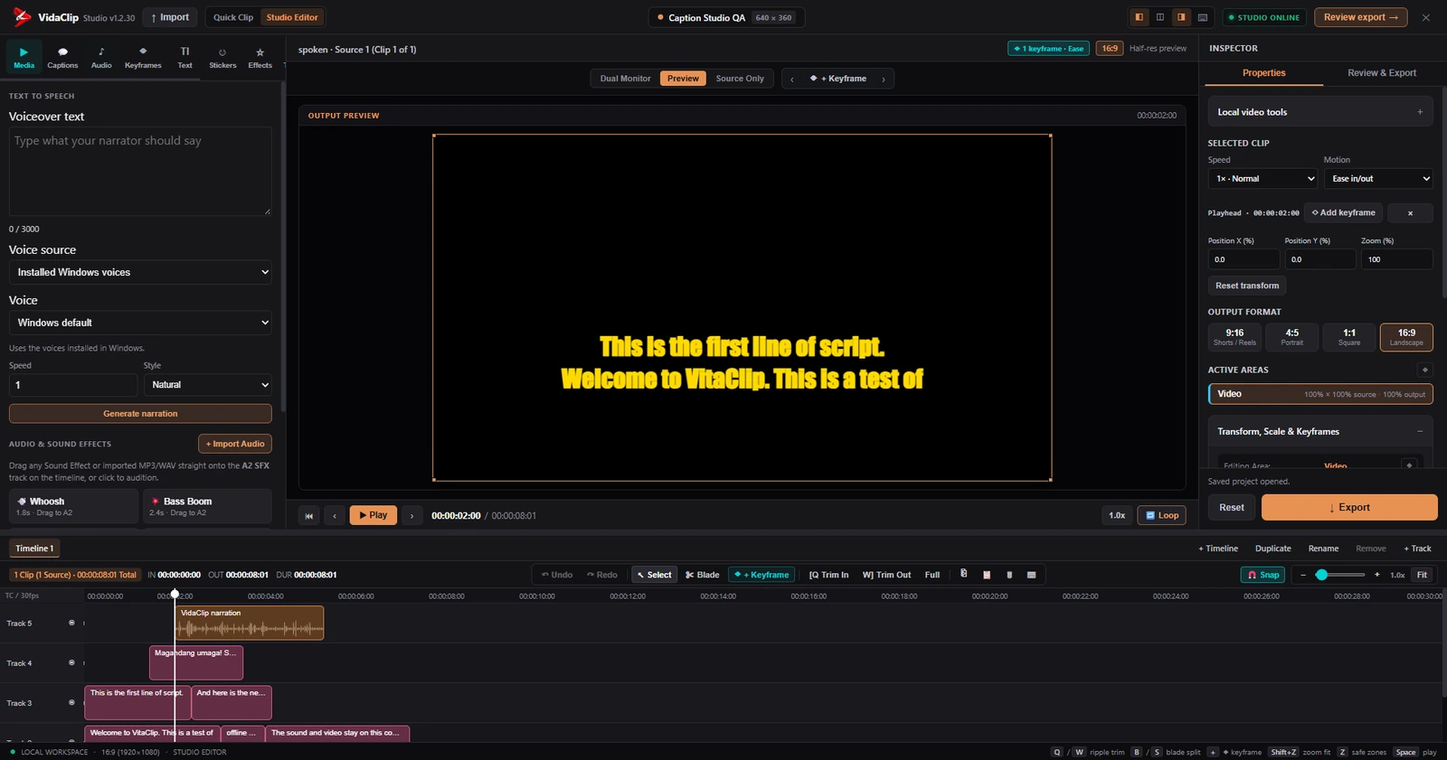
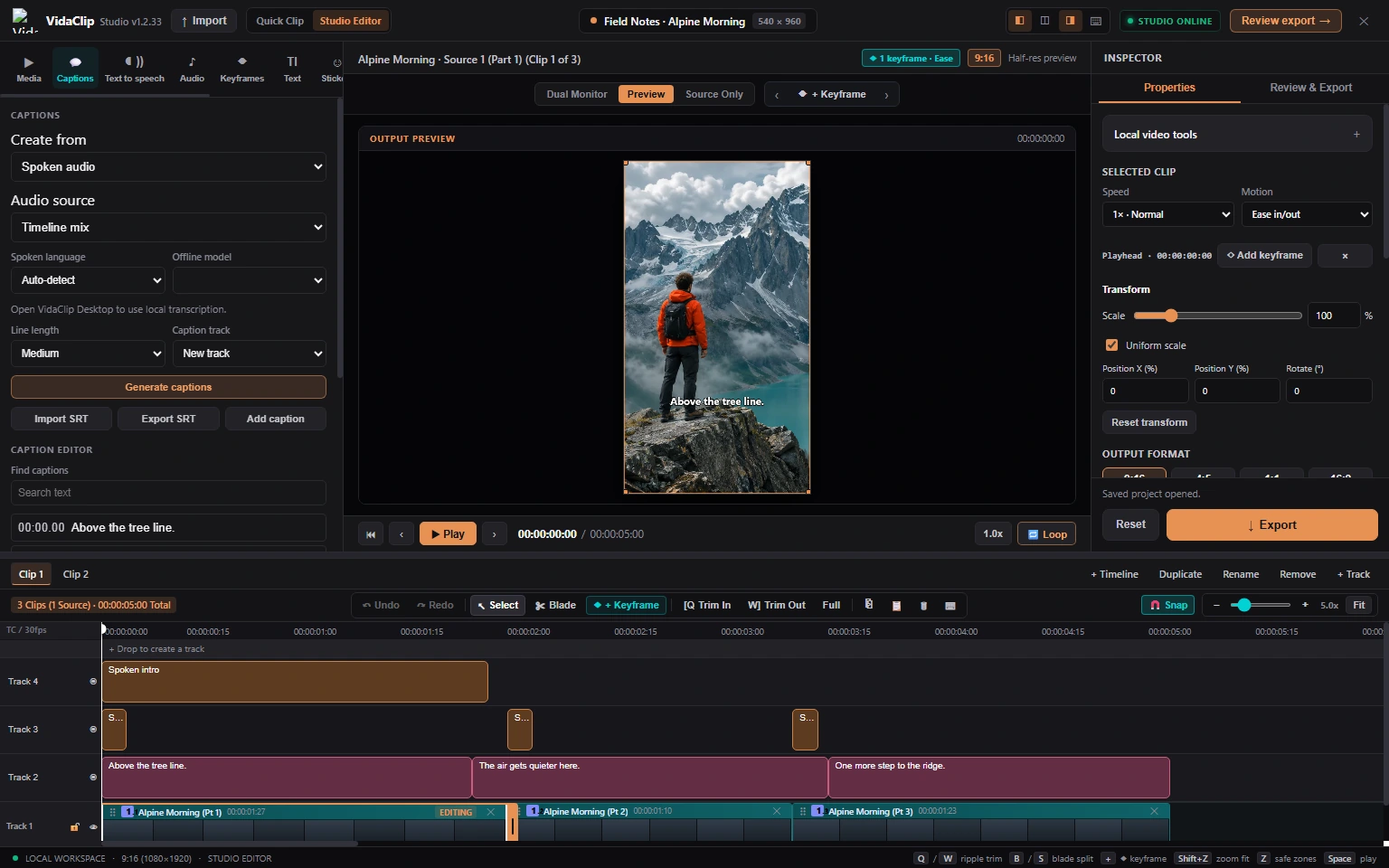
Redesign homepage around the Auto Clip workflow

diff --git a/index.html b/index.html
@@ -5,11 +5,11 @@
   <meta name="viewport" content="width=device-width, initial-scale=1">
   <meta name="theme-color" content="#131214">
   <meta name="description" content="Turn a video into vertical highlights with VidaClip Auto Clip, then finish the edit on a layered timeline in Studio for Windows.">
-  <meta property="og:title" content="VidaClip — From long video to short story">
+  <meta property="og:title" content="VidaClip — Turn video links into editable Shorts">
   <meta property="og:description" content="Find highlights, cut the quiet, and make the edit yours. Auto Clip and Studio for Windows.">
   <meta property="og:type" content="website">
   <meta property="og:image" content="https://jamiidels.github.io/VidaClip-/assets/field-notes.webp">
-  <title>VidaClip — From long video to short story</title>
+  <title>VidaClip — Turn video links into editable Shorts</title>
   <link rel="icon" href="favicon.ico">
   <link rel="stylesheet" href="site.css">
   <link rel="preconnect" href="https://fonts.googleapis.com">
@@ -23,7 +23,7 @@
     <div class="nav shell">
       <a class="brand" href="#top"><img src="assets/mark.webp" alt="" width="34" height="34">VidaClip</a>
       <nav aria-label="Main navigation">
-        <a href="#workspace">Features</a>
+        <a href="#features">Features</a>
         <a href="#showcase">Studio</a>
         <a href="#pricing">Plans</a>
         <a href="changelog.html">Changelog</a>
@@ -33,26 +33,58 @@
     </div>
   </header>
   <main id="main">
-    <section class="hero shell">
-      <div class="release-pill"><i aria-hidden="true"></i> Windows Desktop <span></span> v1.2.33 Early Access</div>
-      <h1>From long video<br>to <em>short story.</em></h1>
-      <p class="hero-intro">Turn a video link into editable highlights with Auto Clip. Fine-tune your Shorts, Reels, and TikToks in Studio for Windows.</p>
-      <div class="hero-downloads">
-        <div class="actions" role="group" aria-label="Browser extensions">
-          <a class="button secondary" href="https://chromewebstore.google.com/detail/vidaclip-%E2%80%94-social-video-c/pajkhmldglleagkdgeogkcbgeonkhigo">Add to Chrome</a>
-          <a class="button secondary" href="https://microsoftedge.microsoft.com/addons/detail/vidaclip-%E2%80%94-social-video-c/ooogedpnllkpbgdohjakigfajiohmdli">Add to Edge</a>
+    <section class="hero shell" aria-labelledby="hero-heading">
+      <div class="hero-copy">
+        <div class="release-pill"><i aria-hidden="true"></i> Windows Desktop <span></span> v1.2.33 Early Access</div>
+        <h1 id="hero-heading">Turn a link into <em>editable Shorts.</em></h1>
+        <p class="hero-intro">Auto Clip finds highlights, trims long pauses, and adds captions. Fine-tune every cut in Studio before you share.</p>
+        <div class="hero-downloads">
+          <a class="button primary" href="https://github.com/JamiiDels/VidaClip-/releases/download/v1.2.33/VidaClip-Desktop-1.2.33-Windows.zip">Download free for Windows</a>
+          <a class="button secondary" href="#showcase">See Studio</a>
         </div>
-        <a class="button primary" href="https://github.com/JamiiDels/VidaClip-/releases/download/v1.2.33/VidaClip-Desktop-1.2.33-Windows.zip">Download latest version for Windows</a>
         <p class="download-benefit">Free Studio exports · No watermark</p>
+        <div class="hero-browser" role="group" aria-label="Companion browser extensions">
+          <span>Clip while you watch</span>
+          <a href="https://chromewebstore.google.com/detail/vidaclip-%E2%80%94-social-video-c/pajkhmldglleagkdgeogkcbgeonkhigo">Add to Chrome</a>
+          <a href="https://microsoftedge.microsoft.com/addons/detail/vidaclip-%E2%80%94-social-video-c/ooogedpnllkpbgdohjakigfajiohmdli">Add to Edge</a>
+        </div>
+      </div>
+      <div class="workflow-demo" data-workflow data-step="link">
+        <div class="workflow-head">
+          <span><img src="assets/mark.webp" width="23" height="23" alt=""> Auto Clip walkthrough</span>
+          <button class="workflow-toggle" type="button" data-demo-toggle hidden>Pause</button>
+        </div>
+        <div class="workflow-stage" aria-hidden="true">
+          <div class="workflow-frame">
+            <img src="assets/field-notes.webp" alt="" width="1350" height="760" fetchpriority="high">
+            <span class="workflow-frame-tag">9:16 · Vertical draft</span>
+            <span class="workflow-caption">Above the tree line.</span>
+          </div>
+          <div class="workflow-link"><span>Video link</span><strong>Alpine Morning · Sample video</strong></div>
+          <div class="workflow-clips"><span>Clip 1 <b>00:15</b></span><span>Clip 2 <b>00:10</b></span></div>
+          <div class="workflow-timeline">
+            <span>Captions <i></i></span>
+            <span>Video <i></i></span>
+            <span>Audio <i></i></span>
+          </div>
+        </div>
+        <div class="workflow-detail">
+          <strong data-demo-heading>Start with a video link.</strong>
+          <p data-demo-description>Paste it into the Desktop Workspace.</p>
+        </div>
+        <div class="workflow-choices" role="group" aria-label="Walkthrough steps" hidden>
+          <button type="button" data-demo-step="link" aria-pressed="true">Paste a link</button>
+          <button type="button" data-demo-step="clip" aria-pressed="false">Find highlights</button>
+          <button type="button" data-demo-step="studio" aria-pressed="false">Edit in Studio</button>
+        </div>
       </div>
     </section>
 
     <section class="section shell release-spotlight" id="features">
       <div class="release-feature">
         <div>
-          <p class="eyebrow"><span aria-hidden="true">✂</span> Auto Clip</p>
-          <h2>One link. More highlights.</h2>
-          <p class="section-intro">Paste a video link and get editable vertical highlights for Shorts, Reels, and TikToks.</p>
+          <p class="eyebrow"><span aria-hidden="true">✂</span> Inside Auto Clip</p>
+          <h2>Pick what goes into each short.</h2>
           <ul>
             <li><span aria-hidden="true">🎯</span><div><strong>Pick the length and clip count</strong><p>Make up to two drafts per run on Free, or unlock up to ten drafts and custom lengths on paid plans.</p></div></li>
             <li><span aria-hidden="true">💬</span><div><strong>Choose what Auto Clip adds</strong><p>Trim long pauses, generate captions, or add a spoken intro and sound effects. Fine-tune each draft on its own Studio timeline.</p></div></li>
@@ -64,7 +96,7 @@
 
     <section class="section shell app-features" id="workspace">
       <p class="eyebrow"><span></span> Features</p>
-      <h2>Capture, edit, and publish.</h2>
+      <h2>Everything you need to finish the cut.</h2>
       <div class="app-feature-grid">
         <article class="app-feature">
           <a class="feature-shot" href="assets/features/download.webp" data-screenshot-title="Instant Link Downloader" aria-label="Enlarge Instant Link Downloader screenshot"><img src="assets/features/download.webp" alt="" width="640" height="360" loading="lazy"></a>
@@ -90,30 +122,35 @@
           <a class="feature-shot" href="assets/screenshots/09-preview-and-export.webp" data-screenshot-title="Free exports, no watermark" aria-label="Enlarge Free exports, no watermark screenshot"><img src="assets/screenshots/09-preview-and-export.webp" alt="" width="1280" height="800" loading="lazy"></a>
           <div><h3><span aria-hidden="true">📤</span> Free exports, no watermark</h3><p>Finish an edit and publish it on the Free plan. Studio exports are unlimited and carry no VidaClip watermark.</p></div>
         </article>
-        <article class="app-feature">
-          <a class="feature-shot" href="assets/features/metadata.webp" data-screenshot-title="AI Label Remover" aria-label="Enlarge AI Label Remover screenshot"><img src="assets/features/metadata.webp" alt="" width="640" height="360" loading="lazy"></a>
-          <div><h3><span aria-hidden="true">🛡</span> AI Label Remover</h3><p>Batch-clean supported embedded metadata, including C2PA, from photos and videos. See what was found and save cleaned copies locally.</p></div>
-        </article>
-        <article class="app-feature">
-          <a class="feature-shot" href="assets/features/export.webp" data-screenshot-title="Effects, speed, and export" aria-label="Enlarge Effects, speed, and export screenshot"><img src="assets/features/export.webp" alt="" width="640" height="360" loading="lazy"></a>
-          <div><h3><span aria-hidden="true">🎛</span> Effects, speed, and export</h3><p>Apply transitions and effects, create speed ramps or freeze frames, and stabilize or denoise footage. Edit with lighter previews and export locally from the original files.</p></div>
-        </article>
-        <article class="app-feature">
-          <a class="feature-shot" href="assets/features/automation.webp" data-screenshot-title="VidaClip Automation" aria-label="Enlarge VidaClip Automation screenshot"><img src="assets/features/automation.webp" alt="" width="640" height="360" loading="lazy"></a>
-          <div><h3><span aria-hidden="true">🤖</span> VidaClip Automation</h3><p>Connect an MCP client or run scripts to import media, edit timelines, generate speech and captions, and start exports.</p></div>
-        </article>
-        <article class="app-feature">
-          <a class="feature-shot" href="assets/features/projects.webp" data-screenshot-title="Projects and Clip Library" aria-label="Enlarge Projects and Clip Library screenshot"><img src="assets/features/projects.webp" alt="" width="640" height="360" loading="lazy"></a>
-          <div><h3><span aria-hidden="true">📁</span> Projects and Clip Library</h3><p>Start from a blank project or reopen a draft. Find saved clips automatically and import your own videos, photos, and audio.</p></div>
-        </article>
       </div>
+      <details class="more-features">
+        <summary>More tools in VidaClip</summary>
+        <div class="app-feature-grid">
+          <article class="app-feature">
+            <a class="feature-shot" href="assets/features/metadata.webp" data-screenshot-title="AI Label Remover" aria-label="Enlarge AI Label Remover screenshot"><img src="assets/features/metadata.webp" alt="" width="640" height="360" loading="lazy"></a>
+            <div><h3><span aria-hidden="true">🛡</span> AI Label Remover</h3><p>Batch-clean supported embedded metadata, including C2PA, from photos and videos. See what was found and save cleaned copies locally.</p></div>
+          </article>
+          <article class="app-feature">
+            <a class="feature-shot" href="assets/features/export.webp" data-screenshot-title="Effects, speed, and export" aria-label="Enlarge Effects, speed, and export screenshot"><img src="assets/features/export.webp" alt="" width="640" height="360" loading="lazy"></a>
+            <div><h3><span aria-hidden="true">🎛</span> Effects, speed, and export</h3><p>Apply transitions and effects, create speed ramps or freeze frames, and stabilize or denoise footage. Edit with lighter previews and export locally from the original files.</p></div>
+          </article>
+          <article class="app-feature">
+            <a class="feature-shot" href="assets/features/automation.webp" data-screenshot-title="VidaClip Automation" aria-label="Enlarge VidaClip Automation screenshot"><img src="assets/features/automation.webp" alt="" width="640" height="360" loading="lazy"></a>
+            <div><h3><span aria-hidden="true">🤖</span> VidaClip Automation</h3><p>Connect an MCP client or run scripts to import media, edit timelines, generate speech and captions, and start exports.</p></div>
+          </article>
+          <article class="app-feature">
+            <a class="feature-shot" href="assets/features/projects.webp" data-screenshot-title="Projects and Clip Library" aria-label="Enlarge Projects and Clip Library screenshot"><img src="assets/features/projects.webp" alt="" width="640" height="360" loading="lazy"></a>
+            <div><h3><span aria-hidden="true">📁</span> Projects and Clip Library</h3><p>Start from a blank project or reopen a draft. Find saved clips automatically and import your own videos, photos, and audio.</p></div>
+          </article>
+        </div>
+      </details>
     </section>
 
     <section class="section studio-section" id="showcase">
       <div class="shell">
         <p class="eyebrow"><span></span> Inside VidaClip Studio</p>
-        <h2>A timeline you can make your own.</h2>
-        <p class="section-intro">Start from a clean project, work from your Clip Library, or reframe with Quick Clip layouts like side-by-side and picture-in-picture. Studio gives you the space to build the full sequence.</p>
+        <h2>Finish your highlights in Studio.</h2>
+        <p class="section-intro">Trim the cut, move captions, and mix audio on separate tracks. Start with an Auto Clip draft or bring your own footage.</p>
         <div class="studio-tour" data-studio-tour>
           <div class="tour-choices" role="group" aria-label="Studio feature previews">
             <button type="button" class="tour-button" data-preview="timeline" aria-pressed="true">Layered timeline</button>
@@ -121,8 +158,8 @@
             <button type="button" class="tour-button" data-preview="speech" aria-pressed="false">Captions &amp; voice</button>
           </div>
           <figure class="feature-image tour-image" aria-live="polite">
-            <a id="tour-link" data-screenshot-title="Layered timeline" href="assets/studio-timeline.webp" aria-label="Open the full Layered timeline screenshot"><img id="tour-photo" src="assets/studio-timeline.webp" alt="VidaClip Studio with a portrait preview, a transform inspector, and several editable timeline tracks" loading="lazy" width="1600" height="841"></a>
-            <figcaption id="tour-caption">An Auto Clip draft opened in Studio with separate video, caption, and audio clips.</figcaption>
+            <a id="tour-link" data-screenshot-title="Layered timeline" href="assets/studio-timeline.webp" aria-label="Open the full Layered timeline screenshot"><img id="tour-photo" src="assets/studio-timeline.webp" alt="A sample hiking short open in Studio with a portrait preview above video, caption, and audio tracks" loading="lazy" width="1536" height="960"></a>
+            <figcaption id="tour-caption">A sample short in Studio with separate tracks for video, captions, and audio.</figcaption>
           </figure>
         </div>
         <p class="tour-gallery-link"><a class="text-link" href="#screenshots">See all product screenshots</a></p>
@@ -295,13 +332,14 @@
       <div class="download-card">
         <p class="eyebrow"><span></span> v1.2.33 Early Access</p>
         <h2>Ready to make your first cut?</h2>
-        <p>Use the browser extension to mark clips while you watch, then edit and export in VidaClip Desktop.</p>
+        <p>Start with a video link or import your own footage in the Windows app.</p>
         <div class="extension-downloads">
-          <div class="actions">
-            <a class="button secondary" href="https://chromewebstore.google.com/detail/vidaclip-%E2%80%94-social-video-c/pajkhmldglleagkdgeogkcbgeonkhigo">Chrome Web Store</a>
-            <a class="button secondary" href="https://microsoftedge.microsoft.com/addons/detail/vidaclip-%E2%80%94-social-video-c/ooogedpnllkpbgdohjakigfajiohmdli">Microsoft Edge Add-ons</a>
+          <a class="button primary" href="https://github.com/JamiiDels/VidaClip-/releases/download/v1.2.33/VidaClip-Desktop-1.2.33-Windows.zip">Download free for Windows</a>
+          <p class="download-benefit">Free Studio exports · No watermark</p>
+          <div class="hero-browser" role="group" aria-label="Companion browser extensions">
+            <a href="https://chromewebstore.google.com/detail/vidaclip-%E2%80%94-social-video-c/pajkhmldglleagkdgeogkcbgeonkhigo">Add to Chrome</a>
+            <a href="https://microsoftedge.microsoft.com/addons/detail/vidaclip-%E2%80%94-social-video-c/ooogedpnllkpbgdohjakigfajiohmdli">Add to Edge</a>
           </div>
-          <a class="button primary" href="https://github.com/JamiiDels/VidaClip-/releases/download/v1.2.33/VidaClip-Desktop-1.2.33-Windows.zip">Download latest version for Windows</a>
         </div>
       </div>
     </section>

diff --git a/site.css b/site.css
@@ -11,7 +11,7 @@
   --body: "DM Sans", system-ui, sans-serif;
 }
 *, *::before, *::after { box-sizing: border-box; }
-html { scroll-behavior: smooth; scroll-padding-top: 85px; }
+html { scroll-padding-top: 85px; }
 body { margin: 0; background: var(--base); color: var(--ink); font: 400 16px/1.6 var(--body); }
 a { color: inherit; }
 button { font: inherit; }
@@ -39,16 +39,56 @@ h3 { font-weight: 800; line-height: 1.3; letter-spacing: -.03em; }
 .secondary:hover { background: #312832; border-color: #65505c; }
 .actions { display: flex; align-items: center; justify-content: center; flex-wrap: wrap; gap: 12px; }
 
-.hero { text-align: center; padding-block: 76px 20px; position: relative; isolation: isolate; }
-.hero::before { content: ""; position: absolute; z-index: -1; inset: 0; background: radial-gradient(ellipse 53% 60% at 50% 38%, #402329 0%, transparent 86%); pointer-events: none; }
+.hero { display: grid; grid-template-columns: 1fr minmax(0, 1fr); align-items: center; gap: clamp(24px, 5vw, 76px); padding-block: clamp(42px, 7vw, 98px) 38px; position: relative; isolation: isolate; }
+.hero::before { content: ""; position: absolute; z-index: -1; inset: 0; background: radial-gradient(ellipse 55% 65% at 70% 42%, #4b2732 0%, transparent 86%); pointer-events: none; }
 .release-pill { display: inline-flex; align-items: center; gap: 9px; border-radius: 30px; border: 1px solid #59343d; color: #f0cbc5; background: #2c1c22; padding: 5px 13px; font-weight: 700; font-size: .82rem; }
 .release-pill i, .eyebrow span { display: inline-block; width: 7px; height: 7px; border-radius: 50%; background: var(--accent); flex: none; }
 .release-pill > span { width: 1px; height: 13px; background: #65434b; }
-.hero h1 { font-size: clamp(3.75rem, 8.2vw, 7.5rem); font-weight: 800; line-height: .98; letter-spacing: -.067em; margin: 20px auto 22px; }
-.hero h1 em { font-style: normal; color: var(--accent); }
+.hero h1 { font-size: clamp(3.3rem, 5.7vw, 5.6rem); font-weight: 800; line-height: .99; letter-spacing: -.075em; margin: 19px auto 18px; }
+.hero h1 em { display: block; font-style: normal; color: var(--accent); }
 .hero-intro, .section-intro { color: var(--muted); font-size: clamp(1rem, 2vw, 1.18rem); line-height: 1.58; max-width: 620px; }
-.hero-intro { max-width: 520px; margin: 0 auto 25px; }
-.hero-downloads, .extension-downloads { display: grid; justify-items: center; gap: 10px; }
+.hero-intro { max-width: 480px; margin: 0 0 22px; }
+.hero-downloads { display: flex; flex-wrap: wrap; gap: 9px; }
+.extension-downloads { display: grid; justify-items: center; gap: 10px; }
+.hero-browser { margin-top: 17px; display: flex; align-items: center; flex-wrap: wrap; gap: 7px 15px; font-size: .9rem; color: var(--muted); }
+.hero-browser a { color: #f5dfe0; text-underline-offset: 4px; }
+.hero-browser a:hover { color: var(--accent); }
+.hero .download-benefit { margin-top: 9px; }
+.workflow-demo { min-width: 0; overflow: hidden; padding: 11px; border: 1px solid #5f454f; border-radius: 16px; background: #1c171d; box-shadow: 0 26px 78px #09070acf; }
+.workflow-head { display: flex; justify-content: space-between; align-items: center; gap: 8px; min-height: 34px; padding: 0 4px 8px; font-size: .9rem; font-weight: 700; }
+.workflow-head span { display: inline-flex; gap: 7px; align-items: center; }
+.workflow-toggle { min-height: 27px; padding: 2px 7px; background: transparent; color: #e1c7ce; border: 1px solid #674953; border-radius: 5px; cursor: pointer; font-size: .77rem; }
+.workflow-stage { position: relative; overflow: hidden; isolation: isolate; height: clamp(245px, 26vw, 345px); background: radial-gradient(ellipse at 55% 25%, #374753, #17151c 75%); border: 1px solid #574753; border-radius: 9px; }
+.workflow-frame { position: absolute; inset: 0; overflow: hidden; border-radius: 8px; transition: inset .60s cubic-bezier(.21,.8,.3,1), border-radius .4s; }
+.workflow-frame img { width: 100%; height: 100%; object-fit: cover; display: block; object-position: 38% 51%; filter: saturate(.89); }
+.workflow-frame::after { content: ""; position: absolute; inset: 40% 0 0; background: linear-gradient(transparent,#101018bd); pointer-events: none; }
+.workflow-frame-tag, .workflow-caption { position: absolute; z-index: 2; opacity: 0; transition: opacity .28s; }
+.workflow-frame-tag { top: 8px; inset-inline: 8px auto; border-radius: 4px; padding: 3px 6px; background: #19161ce8; color: #ffe2dc; font-size: .68rem; }
+.workflow-caption { bottom: 12%; width: 100%; padding-inline: 5px; text-align: center; font: 800 clamp(.85rem, 1.5vw, 1.16rem) var(--head); text-shadow: 0 2px 5px #000, 0 1px 2px #000; }
+.workflow-link { position: absolute; z-index: 3; bottom: 13px; inset-inline: 12px; display: grid; gap: 2px; padding: 9px 11px; border-radius: 7px; border: 1px solid #9d757d; background: #221a23e8; box-shadow: 0 5px 16px #0d090ccc; transition: transform .36s, opacity .3s; }
+.workflow-link span { font-size: .72rem; color: #ffc5c4; }
+.workflow-link strong { font-size: .87rem; }
+.workflow-clips { position: absolute; top: 18%; left: 8%; width: 37%; display: grid; gap: 8px; opacity: 0; transform: translateY(10px); transition: transform .32s, opacity .26s; }
+.workflow-clips span { padding: 7px; display: flex; justify-content: space-between; flex-wrap: wrap; gap: 1px 5px; font-size: .78rem; border: 1px solid #7c555b; border-radius: 5px; background: #30252f; }
+.workflow-clips b { color: #ffaaa9; }
+.workflow-timeline { position: absolute; inset: auto 9px 9px; padding: 5px 7px; display: grid; gap: 4px; border: 1px solid #6d5264; border-radius: 6px; background: #211823ed; opacity: 0; transform: translateY(10px); transition: transform .32s, opacity .28s; }
+.workflow-timeline span { display: grid; grid-template-columns: 56px 1fr; align-items: center; gap: 6px; color: #dfc8d2; font-size: .67rem; }
+.workflow-timeline i { height: 10px; border-radius: 3px; background: linear-gradient(90deg, #a45087 22%, transparent 22% 24%, #a45087 24% 61%, transparent 61% 64%, #a45087 64% 86%, transparent 86%); }
+.workflow-timeline span:nth-child(2) i { background: linear-gradient(90deg, #ae7852 43%, transparent 43% 45%, #ae7852 45% 88%, transparent 88%); }
+.workflow-timeline span:nth-child(3) i { width: 86%; background: repeating-linear-gradient(90deg, #43888b 0 3px, #326472 3px 5px); }
+[data-step="clip"] .workflow-frame { inset: 5% 7% 5% 48%; }
+[data-step="studio"] .workflow-frame { inset: 3% 30% 35% 33%; }
+[data-step="clip"] .workflow-frame-tag, [data-step="clip"] .workflow-caption, [data-step="studio"] .workflow-caption { opacity: 1; }
+[data-step="clip"] .workflow-clips, [data-step="studio"] .workflow-timeline { opacity: 1; transform: none; }
+[data-step]:not([data-step="link"]) .workflow-link { opacity: 0; transform: translateY(15px); }
+.workflow-detail { min-height: 76px; padding: 11px 4px 9px; line-height: 1.35; }
+.workflow-detail strong { color: #fff0ed; }
+.workflow-detail p { color: var(--muted); font-size: .87rem; margin-top: 3px; }
+.workflow-choices { display: grid; grid-template-columns: repeat(3,minmax(0,1fr)); gap: 4px; }
+.workflow-choices[hidden] { display: none; }
+.workflow-choices button { padding: 6px 2px; min-height: 42px; border: 1px solid #674955; border-radius: 6px; background: #271f29; color: #f6dce1; cursor: pointer; font-size: .79rem; font-weight: 700; }
+.workflow-choices button[aria-pressed="true"] { color: #230e16; background: #ff8892; border-color: #ff8892; }
+.workflow-choices button:hover:not([aria-pressed="true"]) { background: #3e2c3c; }
 figcaption, .section-note { color: var(--muted); margin: 11px 0 0; font-size: .875rem; }
 
 .section { padding-block: clamp(59px, 9vw, 105px); }
@@ -59,11 +99,12 @@ figcaption, .section-note { color: var(--muted); margin: 11px 0 0; font-size: .8
 .feature-image a { display: block; border: 1px solid #51414c; border-radius: 13px; overflow: hidden; background: #1a171d; }
 .feature-image img { display: block; width: 100%; height: auto; }
 .studio-section, .pricing-section { background: #19161a; border-block: 1px solid #302932; }
+.studio-section { padding-block: clamp(36px, 5.2vw, 76px); }
 .tour-choices { display: flex; gap: 8px; flex-wrap: wrap; margin-block: 24px 12px; }
 .tour-button, .billing button { cursor: pointer; border: 1px solid #4a3b46; background: #201b20; color: var(--muted); border-radius: 7px; padding: 8px 13px; min-height: 40px; font-weight: 700; }
 .tour-button:hover, .billing button:hover { color: var(--ink); border-color: #8b626e; }
 .tour-button[aria-pressed="true"], .billing button[aria-pressed="true"] { background: #40232d; color: #ffb4ba; border-color: #8a4858; }
-.tour-image img { aspect-ratio: 16 / 9; object-fit: contain; }
+.tour-image img { aspect-ratio: 16 / 9; max-height: min(61vh, 560px); object-fit: contain; }
 .tour-gallery-link { margin-top: 16px; }
 .updates-head { display: flex; align-items: end; justify-content: space-between; flex-wrap: wrap; gap: 12px; margin-bottom: 24px; }
 .text-link { color: #ffb4b7; text-underline-offset: 4px; font-weight: 700; }
@@ -107,15 +148,21 @@ footer { border-top: 1px solid var(--line); }
 
 @media (max-width: 950px) {
   .plans { grid-template-columns: repeat(2, minmax(0, 1fr)); }
+  .hero { gap: 22px; }
+}
+@media (max-width: 800px) {
+  .hero { grid-template-columns: 1fr; justify-items: center; text-align: center; }
+  .hero-intro { margin-inline: auto; }
+  .hero-downloads, .hero-browser { justify-content: center; }
+  .workflow-demo { width: min(100%, 535px); text-align: left; }
 }
 @media (max-width: 710px) {
   .shell { width: calc(100% - 36px); }
   .nav { flex-wrap: wrap; row-gap: 8px; padding-block: 9px; }
   .nav nav { order: 3; width: 100%; justify-content: space-between; gap: 12px; }
-  .site-header { position: static; }
-  html { scroll-padding-top: 12px; }
+  html { scroll-padding-top: 112px; }
   .hero { padding-top: 51px; }
-  .hero h1 { font-size: clamp(3rem, 10.9vw, 5rem); }
+  .hero h1 { font-size: clamp(2.57rem, 10.1vw, 4.8rem); }
   .faq-section { grid-template-columns: 1fr; }
   .footer-row { align-items: start; flex-direction: column; }
 }
@@ -181,6 +228,10 @@ html:has(.gallery-dialog[open]) { overflow: hidden; }
 .app-feature > div { padding: 13px 15px 16px; }
 .app-feature h3 { font-size: 1.05rem; }
 .app-feature p { margin-top: 6px; color: var(--muted); font-size: .94rem; }
+.more-features { margin-top: 15px; }
+.more-features summary { cursor: pointer; color: #f5dadd; font-weight: 750; border: 1px solid #52414b; background: #251d25; border-radius: 8px; padding: 11px 14px; }
+.more-features .app-feature-grid { margin-top: 12px; }
+.extension-downloads > .hero-browser { justify-content: center; margin-top: 4px; }
 .footer-contact { padding-block: 19px 26px; border-top: 1px solid var(--line); }
 .footer-contact p { color: var(--muted); margin: 4px 0; }
 .footer-contact a { display: inline-block; overflow-wrap: anywhere; }

diff --git a/site.js b/site.js
@@ -1,21 +1,74 @@
+const workflow = document.querySelector("[data-workflow]");
+if (workflow) {
+  const steps = [
+    { id: "link", heading: "Start with a video link.", description: "Paste it into the Desktop Workspace." },
+    { id: "clip", heading: "Get editable highlights.", description: "Choose the clip length, captions, and whether to trim long pauses." },
+    { id: "studio", heading: "Finish the short in Studio.", description: "Adjust the cut, captions, and audio, then export on your PC." }
+  ];
+  const choices = workflow.querySelector(".workflow-choices");
+  const buttons = [...choices.querySelectorAll("[data-demo-step]")];
+  const toggle = workflow.querySelector("[data-demo-toggle]");
+  const heading = workflow.querySelector("[data-demo-heading]");
+  const description = workflow.querySelector("[data-demo-description]");
+  const reducedMotion = window.matchMedia("(prefers-reduced-motion: reduce)");
+  let selected = 0;
+  let timer;
+
+  function renderStep(index) {
+    selected = index;
+    const step = steps[index];
+    workflow.dataset.step = step.id;
+    heading.textContent = step.heading;
+    description.textContent = step.description;
+    for (const button of buttons) {
+      button.setAttribute("aria-pressed", String(button.dataset.demoStep === step.id));
+    }
+  }
+
+  function setPlaying(playing) {
+    window.clearInterval(timer);
+    timer = playing ? window.setInterval(() => {
+      if (!document.hidden && workflow.getBoundingClientRect().bottom > 0) {
+        renderStep((selected + 1) % steps.length);
+      }
+    }, 4000) : undefined;
+    toggle.textContent = playing ? "Pause" : "Play";
+  }
+
+  for (const [index, button] of buttons.entries()) {
+    button.addEventListener("click", () => {
+      setPlaying(false);
+      renderStep(index);
+    });
+  }
+  toggle.addEventListener("click", () => setPlaying(timer === undefined));
+  reducedMotion.addEventListener("change", () => setPlaying(!reducedMotion.matches));
+  choices.hidden = false;
+  toggle.hidden = false;
+  setPlaying(!reducedMotion.matches);
+}
+
 const studioTour = document.querySelector("[data-studio-tour]");
 
 if (studioTour) {
   const previews = {
     timeline: {
       image: "assets/studio-timeline.webp",
-      alt: "VidaClip Studio with a portrait preview, a transform inspector, and several editable timeline tracks",
-      caption: "An Auto Clip draft opened in Studio with separate video, caption, and audio clips."
+      alt: "A sample hiking short open in Studio with a portrait preview above video, caption, and audio tracks",
+      caption: "A sample short in Studio with separate tracks for video, captions, and audio.",
+      width: 1536, height: 960
     },
     projects: {
       image: "assets/studio-projects.webp",
       alt: "Studio Editor home with a red Create project button, saved projects, and clips from the downloads folder",
-      caption: "Create a blank project, reopen an edit, or start with a clip from your downloads."
+      caption: "Create a blank project, reopen an edit, or start with a clip from your downloads.",
+      width: 1220, height: 780
     },
     speech: {
       image: "assets/studio-speech.webp",
-      alt: "VidaClip Studio showing editable captions and voice clips on the timeline",
-      caption: "Work with captions and spoken audio on their own tracks."
+      alt: "The Captions panel in Studio with a portrait hiking short and caption and spoken audio tracks",
+      caption: "Work with captions and spoken audio on their own tracks.",
+      width: 1536, height: 960
     }
   };
   const tourButtons = [...studioTour.querySelectorAll("[data-preview]")];
@@ -30,6 +83,8 @@ if (studioTour) {
         option.setAttribute("aria-pressed", String(option === button));
       }
       photo.alt = preview.alt;
+      photo.width = preview.width;
+      photo.height = preview.height;
       photo.src = preview.image;
       link.href = preview.image;
       link.dataset.screenshotTitle = button.textContent.trim();
